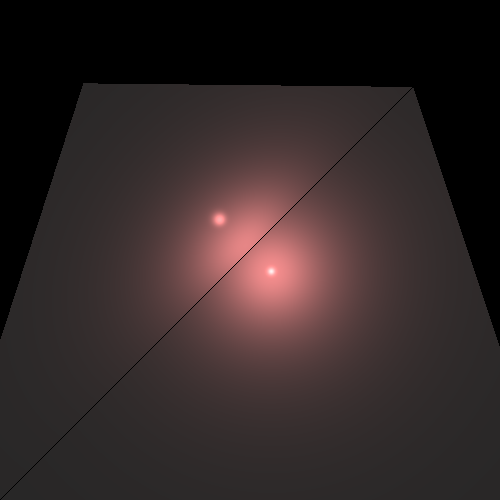
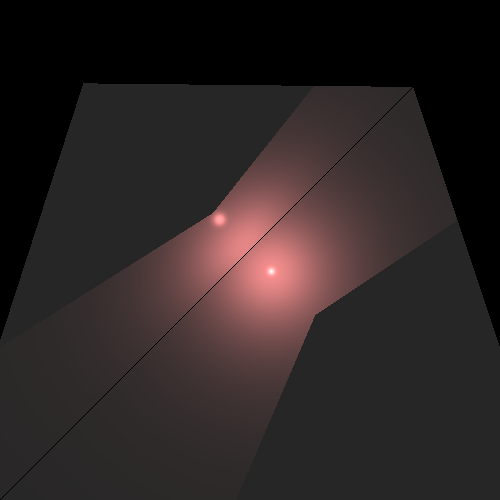
shadow

Changed region(s): [[0.54, 0.51, 0.81, 0.81], [0.24, 0.24, 0.57, 0.54]]

diff --git a/unittests/elements/ShadowTests.java b/unittests/elements/ShadowTests.java
@@ -1,0 +1,79 @@
+package elements;
+
+import org.junit.jupiter.api.Test;
+
+import elements.*;
+import geometries.*;
+import primitives.*;
+import renderer.*;
+import scene.Scene;
+
+/**
+ * Testing basic shadows
+ *
+ * @author Dan
+ */
+public class ShadowTests {
+    private Scene scene = new Scene("Test scene");
+    private Camera camera = new Camera(new Point3D(0, 0, 1000), new Vector(0, 0, -1), new Vector(0, 1, 0)) //
+            .setViewPlaneSize(200, 200).setDistance(1000);
+
+    /**
+     * Produce a picture of a sphere and triangle with point light and shade
+     */
+    @Test
+    public void sphereTriangleInitial() {
+        scene._geometries.add( //
+                new Sphere(new Point3D(0, 0, -200),60) //
+                        .setEmission(new Color(java.awt.Color.BLUE)) //
+                        .setMaterial(new Material().setkD(0.5).setkS(0.5).setnShininess(30)), //
+                new Triangle(new Point3D(-70, -40, 0), new Point3D(-40, -70, 0), new Point3D(-68, -68, -4)) //
+                        .setEmission(new Color(java.awt.Color.BLUE)) //
+                        .setMaterial(new Material().setkD(0.5).setkS(0.5).setnShininess(30)) //
+        );
+        scene._lights.add( //
+                new SpotLight(  new Vector(1, 1, -3),
+                                new Color(400, 240, 0),
+                                new Point3D(-100, -100, 200)) //
+                                .setkL(1E-5).setkQ(1.5E-7));
+
+        Render render = new Render(). //
+                setImageWriter(new ImageWriter("shadowSphereTriangleInitial", 400, 400)) //
+                .setCamera(camera) //
+                .setRayTracer(new RayTracerBasic(scene));
+        render.renderImage();
+        render.writeToImage();
+    }
+
+    /**
+     * Produce a picture of a two triangles lighted by a spot light with a Sphere
+     * producing a shading
+     */
+    @Test
+    public void trianglesSphere() {
+        scene.setAmbientLight(new AmbientLight(new Color(java.awt.Color.WHITE), 0.15));
+
+        scene._geometries.add( //
+                new Triangle(new Point3D(-150, -150, -115), new Point3D(150, -150, -135), new Point3D(75, 75, -150)) //
+                        .setMaterial(new Material().setkS(0.8).setnShininess(60)), //
+                new Triangle(new Point3D(-150, -150, -115), new Point3D(-70, 70, -140), new Point3D(75, 75, -150)) //
+                        .setMaterial(new Material().setkS(0.8).setnShininess(60)), //
+                new Sphere(new Point3D(0, 0, -115),30) //
+                        .setEmission(new Color(java.awt.Color.BLUE)) //
+                        .setMaterial(new Material().setkS(0.5).setkS(0.5).setnShininess(30)) //
+        );
+        scene._lights.add( //
+                new SpotLight(new Vector(-1, -1, -4),
+                              new Color(700, 400, 400),
+                              new Point3D(40, 40, 115))
+                              .setkL(4E-4).setkL(2E-5));
+
+        Render render = new Render() //
+                .setImageWriter(new ImageWriter("shadowTrianglesSphere", 600, 600)) //
+                .setCamera(camera) //
+                .setRayTracer(new RayTracerBasic(scene));
+        render.renderImage();
+        render.writeToImage();
+    }
+
+}

diff --git a/src/renderer/RayTracerBasic.java b/src/renderer/RayTracerBasic.java
@@ -13,6 +13,11 @@ import static geometries.Intersectable.GeoPoint;
  * calculates the color of the intersection point between camera rays and geometries in the 3D model
  */
 public class RayTracerBasic extends RayTracerBase {
+    /**
+     * length of the shifting - moving the point out of the geometry in direction of the normal
+     * and size of DELTA
+     */
+
     public RayTracerBasic(Scene myScene) {
         super(myScene);
     }
@@ -54,10 +59,13 @@ public class RayTracerBasic extends RayTracerBase {
         for (LightSource lightSource : _scene._lights) {
             Vector l = lightSource.getL(geoPoint.point);
             double nl = Util.alignZero(n.dotProduct(l));
-            if (nl * nv > 0) { // sign(nl) == sing(nv)
-                Color lightIntensity = lightSource.getIntensity(geoPoint.point);
-                color = color.add(calcDiffusive(kd, l, n, lightIntensity),
-                        calcSpecular(ks, l, n, v, nShininess, lightIntensity));
+            if(unshaded(lightSource.getL(geoPoint.point),
+                    geoPoint.geometry.getNormal(geoPoint.point),geoPoint,lightSource)) {
+                if (nl * nv > 0) { // sign(nl) == sing(nv)
+                    Color lightIntensity = lightSource.getIntensity(geoPoint.point);
+                    color = color.add(calcDiffusive(kd, l, n, lightIntensity),
+                            calcSpecular(ks, l, n, v, nShininess, lightIntensity));
+                }
             }
         }
         return color;
@@ -94,4 +102,34 @@ public class RayTracerBasic extends RayTracerBase {
         double nl = Math.abs(Util.alignZero(n.dotProduct(l)));
         return lightIntensity.scale(nl * kd);
     }
+
+
+    private static final double DELTA = 0.1;
+    /**
+     * checks if there are no interferences in the way of the light source to the point. if there are
+     * other geometries in the midle than there wouldn't be influence of this light source.
+     * @param l direction of the light source
+     * @param n normal vector to the geometry in the current point
+     * @param geoPoint the point we check whether lighten or not
+     * @return true if no shaded - the point is lighten by the light source. else false.
+     */
+    private boolean unshaded(Vector l, Vector n, GeoPoint geoPoint, LightSource lightSource){
+        Vector lightDirection = l.scale(-1); // from point to light source
+        Vector delta = n.scale(n.dotProduct(lightDirection) > 0 ? DELTA :  -DELTA);
+        Point3D point = geoPoint.point.add(delta);
+        Ray lightRay = new Ray(lightDirection,point);
+        List<GeoPoint> intersections = _scene._geometries.findGeoIntersections(lightRay);
+
+       /** //checking if the intersections point are not behind the light source. if so
+        //there is no shading
+        if(intersections!=null) {
+            double distance = lightSource.getDistance(geoPoint.point);
+            for (GeoPoint geo_point : intersections) {
+                if (geo_point.point.distance(point) < distance)
+                    return false;
+            }
+        }
+        return true;**/
+       return intersections == null;
+    };
 }

diff --git a/src/geometries/Sphere.java b/src/geometries/Sphere.java
@@ -86,23 +86,14 @@ public class Sphere extends Geometry {
 
         double th = Util.alignZero(Math.sqrt(_radius*_radius - d*d));
 
-        double t1 = Util.alignZero(tm -th);
-        double t2 = Util.alignZero( tm + th);
+        double t = Util.alignZero(tm -th);
 
         //RETURN only the t points that bigger then 0
-        if(t1 > 0 && t2 > 0){
-            Point3D P1 = ray.getPoint(t1);
-            Point3D P2 = ray.getPoint(t2);
+        if(Util.alignZero(t/2) > 0){
+            Point3D P1 = ray.getPoint(t);
+            Point3D P2 = ray.getPoint(-t);
 
             return List.of(new GeoPoint(this,P1),new GeoPoint(this,P2));
-        }
-        if(t1 > 0){
-            Point3D P1 = ray.getPoint(t1);
-            return List.of(new GeoPoint(this,P1));
-        }
-        if(t2 > 0){
-            Point3D P2 = ray.getPoint(t2);
-            return List.of(new GeoPoint(this,P2));
         }
         return null;
 

diff --git a/src/primitives/Ray.java b/src/primitives/Ray.java
@@ -1,8 +1,11 @@
 package primitives;
+import static java.lang.System.out;
 
 import geometries.Geometry;
 import geometries.Intersectable;
 import static geometries.Intersectable.GeoPoint;
+import static java.lang.System.out;
+import static primitives.Point3D.ZERO;
 
 import java.util.List;
 import java.util.Objects;
@@ -76,6 +79,17 @@ public class Ray {
     {
         Point3D P0=getPoint();
         Vector v=getDirection();
+
+        try
+        {
+            P0.add(v.scale(t));
+        }
+
+
+        catch (Exception e){
+        out.println(t+ "   "  +v._head._x +"  " +v._head._y +"  " + v._head._z);
+            throw new IllegalArgumentException("oops");
+    }
         return P0.add(v.scale(t));
     }
 

diff --git a/src/elements/PointLight.java b/src/elements/PointLight.java
@@ -54,6 +54,11 @@ public class PointLight extends Light implements LightSource {
         return this;
     }
 
+    @Override
+    public double getDistance(Point3D point) {
+        return point.distance(_position);
+    }
+
     /**
      * Calculates the intensity of light coming from the light source to the point, by the formula:
      * original intenisy / (kC +   kL * distance between light source and point  +  kQ * squared distance )

diff --git a/src/elements/DirectionalLight.java b/src/elements/DirectionalLight.java
@@ -20,6 +20,11 @@ public class DirectionalLight extends Light implements LightSource{
         _direction = direction;
     }
 
+    @Override
+    public double getDistance(Point3D point) {
+        return Double.POSITIVE_INFINITY;
+    }
+
     /**
      * intensity of light in the point lighten only from this light source,
      * equals to the original intensity

diff --git a/src/primitives/Vector.java b/src/primitives/Vector.java
@@ -36,8 +36,10 @@ public class Vector {
      */
     public Vector(double x, double y, double z) {
         Point3D point = new Point3D(x, y, z);
-        if (point.equals(ZERO))
+
+        if (point.equals(ZERO)) {
             throw new IllegalArgumentException("Vector head cannot be Point(0,0,0)");
+        }
         _head = point;
     }
 

diff --git a/src/elements/LightSource.java b/src/elements/LightSource.java
@@ -8,6 +8,8 @@ import primitives.Vector;
  * represent all light sources(include point light and directional light etc, excludes ambient light etc)
  */
 public interface LightSource {
+    double getDistance(Point3D point);
+
     /**
      * calculates intensity of light coming from the light source to the point
      * @param p
